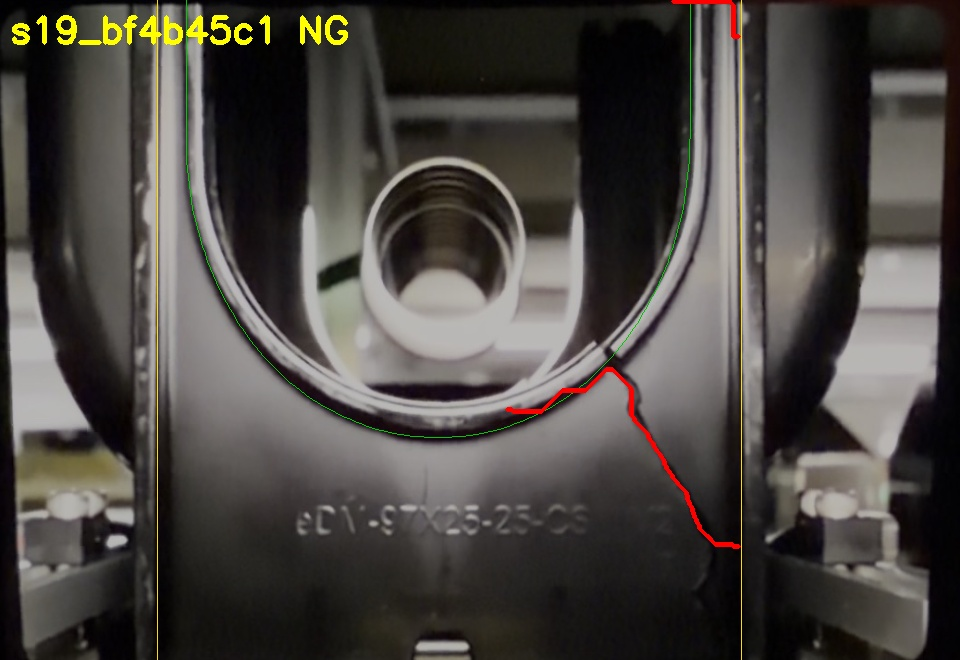
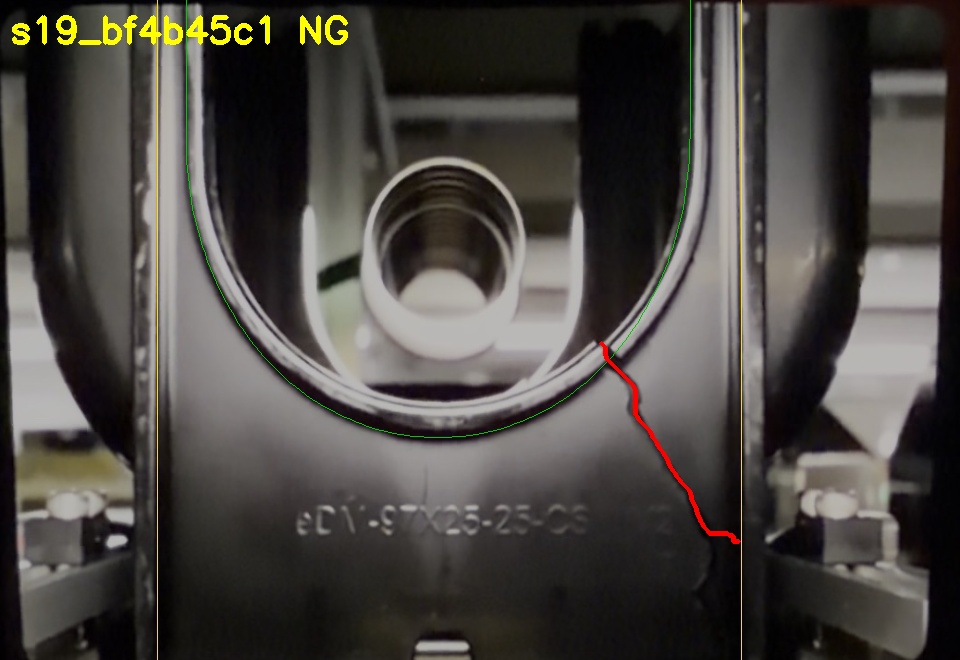
Inner-start: compensate wall thickness for rim width, reject paths running along inside the rim
Claude-Session: https://claude.ai/code/session_01AGHVZAzegJVfdU4wL5nFmJ

Changed region(s): [[0.5312, 0.5152, 0.7188, 0.7576], [0.7188, 0.7576, 0.7812, 0.8485], [0.6875, 0.0, 0.7812, 0.0606]]

diff --git a/gist/crack_v14_bundle.py b/gist/crack_v14_bundle.py
@@ -201,7 +201,9 @@ class Crossing:
         cum0, _ = MCP(np.where(walk, 1.0, np.inf)).find_costs(self.starts)
         ends = np.argwhere(self.m["outer"])
         th = cum0[ends[:, 0], ends[:, 1]]
-        keep = (ends[:, 0] >= y0) & np.isfinite(th) & (th >= geom.get("min_thick", 60))
+        # 起点を縁取りの内側に置いたときは、縁取りの太さぶん厚く測れるので、その分を足して比べる
+        extra = (geom.get("rim_width") or 0) + 6 if self.m["rim"].any() else 0
+        keep = (ends[:, 0] >= y0) & np.isfinite(th) & (th >= geom.get("min_thick", 60) + extra)
         self.ends, self.thick = ends[keep], th[keep]
 
         # プレートの端（縦リブの縁）は黒い線が必ずあるので、割れの証拠として数えない帯にする
@@ -783,9 +785,16 @@ class Inspector:
             P = q["path"]
             return float(max((dist[P[:, 0], P[:, 1]] < hug_d).mean(), (dist_rib[P[:, 0], P[:, 1]] < 25).mean()))
 
+        rim_mask = cr.m["rim"]
+
         def reject(q):
-            """割れではない道: 大部分が縁・縦リブに沿っている、または終点が起点よりかなり上（脚の溝を上へ這う）"""
-            return hug(q) > p["hug_max"] or q["path"][0, 0] - q["path"][-1, 0] > p["up_max"]
+            """割れではない道:
+              大部分が縁・縦リブに沿っている / 終点が起点よりかなり上（脚の溝を上へ這う）/
+              縁取りの中を縁に沿って長く進んでいる（割れは縁取りをまっすぐ横切る）"""
+            P = q["path"]
+            in_rim = rim_mask[P[:, 0], P[:, 1]].sum() * 1.0
+            along = in_rim > 2.5 * (geom.get("rim_width") or 16) + 12
+            return hug(q) > p["hug_max"] or P[0, 0] - P[-1, 0] > p["up_max"] or along
 
         # 3-5. 背面光 -> 割れらしさ -> 経路探索
         lit = is_backlit(frame, cr.m["opening"])

diff --git a/crack_v14/inspect_v14.py b/crack_v14/inspect_v14.py
@@ -73,9 +73,16 @@ class Inspector:
             P = q["path"]
             return float(max((dist[P[:, 0], P[:, 1]] < hug_d).mean(), (dist_rib[P[:, 0], P[:, 1]] < 25).mean()))
 
+        rim_mask = cr.m["rim"]
+
         def reject(q):
-            """割れではない道: 大部分が縁・縦リブに沿っている、または終点が起点よりかなり上（脚の溝を上へ這う）"""
-            return hug(q) > p["hug_max"] or q["path"][0, 0] - q["path"][-1, 0] > p["up_max"]
+            """割れではない道:
+              大部分が縁・縦リブに沿っている / 終点が起点よりかなり上（脚の溝を上へ這う）/
+              縁取りの中を縁に沿って長く進んでいる（割れは縁取りをまっすぐ横切る）"""
+            P = q["path"]
+            in_rim = rim_mask[P[:, 0], P[:, 1]].sum() * 1.0
+            along = in_rim > 2.5 * (geom.get("rim_width") or 16) + 12
+            return hug(q) > p["hug_max"] or P[0, 0] - P[-1, 0] > p["up_max"] or along
 
         # 3-5. 背面光 -> 割れらしさ -> 経路探索
         lit = is_backlit(frame, cr.m["opening"])

diff --git a/crack_v14/crossing.py b/crack_v14/crossing.py
@@ -44,7 +44,9 @@ class Crossing:
         cum0, _ = MCP(np.where(walk, 1.0, np.inf)).find_costs(self.starts)
         ends = np.argwhere(self.m["outer"])
         th = cum0[ends[:, 0], ends[:, 1]]
-        keep = (ends[:, 0] >= y0) & np.isfinite(th) & (th >= geom.get("min_thick", 60))
+        # 起点を縁取りの内側に置いたときは、縁取りの太さぶん厚く測れるので、その分を足して比べる
+        extra = (geom.get("rim_width") or 0) + 6 if self.m["rim"].any() else 0
+        keep = (ends[:, 0] >= y0) & np.isfinite(th) & (th >= geom.get("min_thick", 60) + extra)
         self.ends, self.thick = ends[keep], th[keep]
 
         # プレートの端（縦リブの縁）は黒い線が必ずあるので、割れの証拠として数えない帯にする
